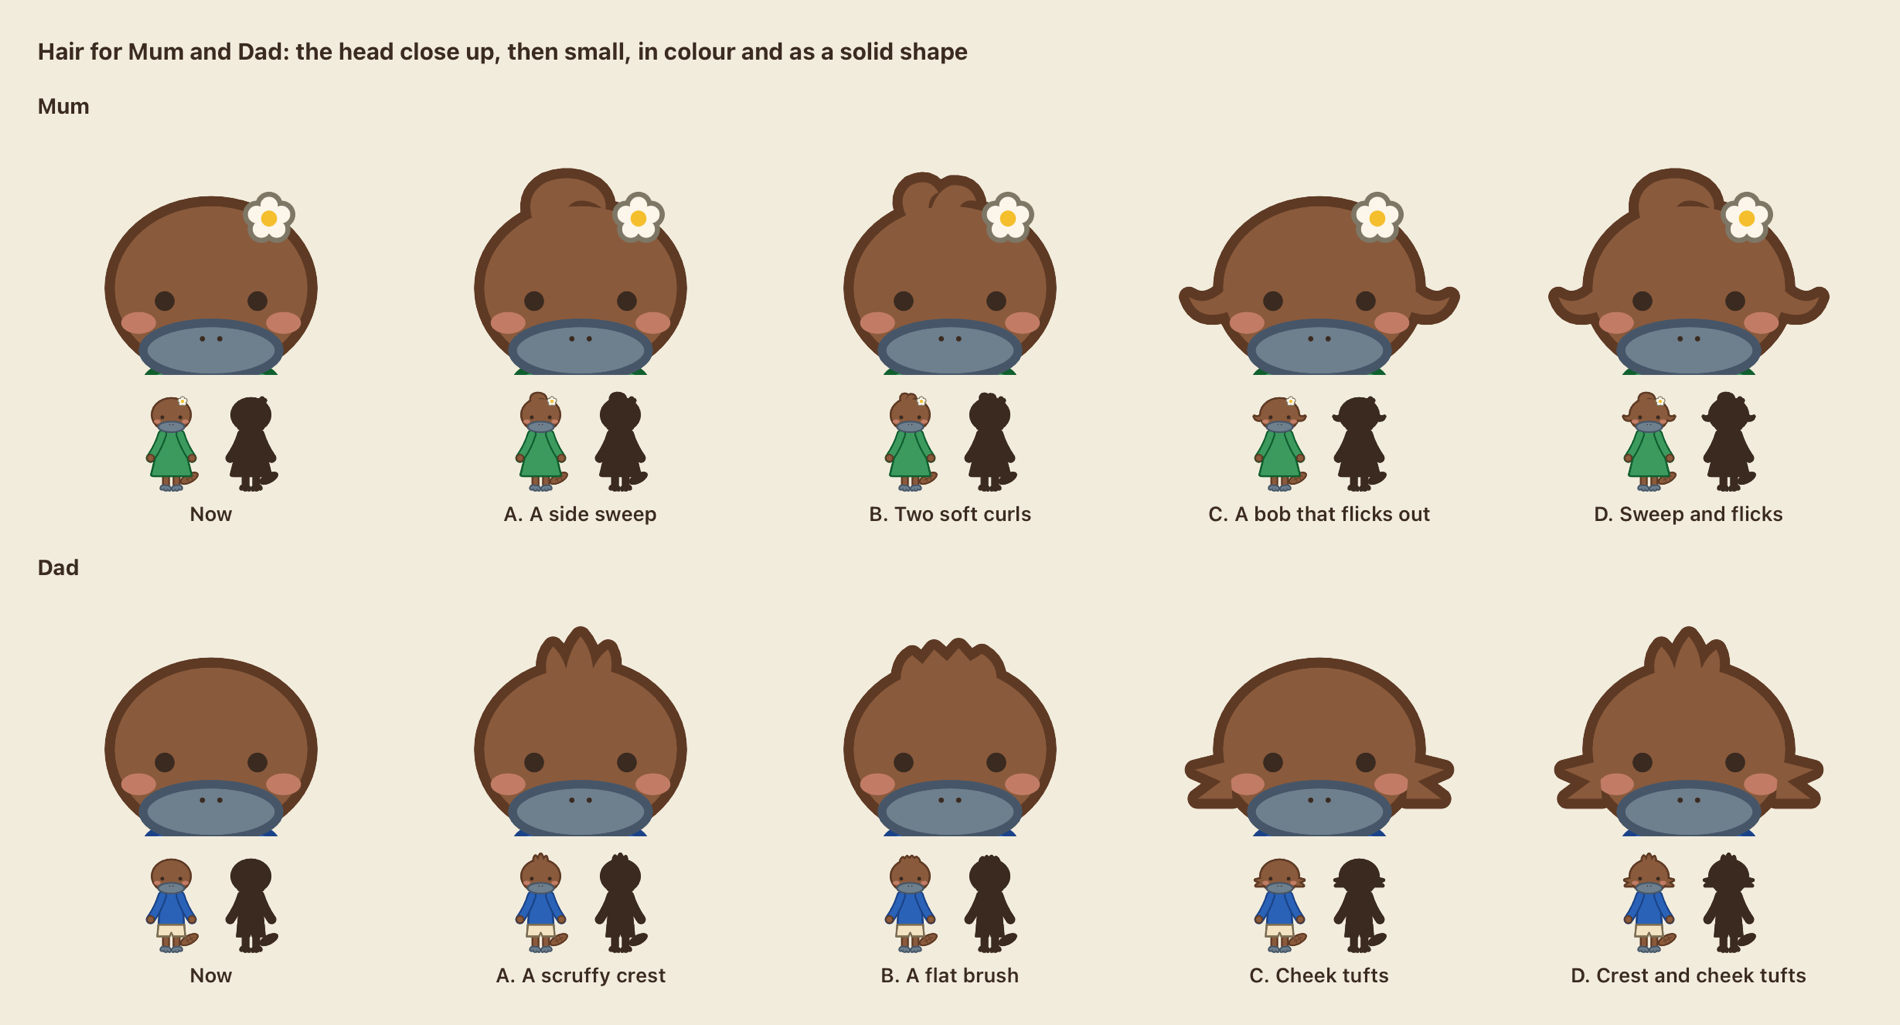
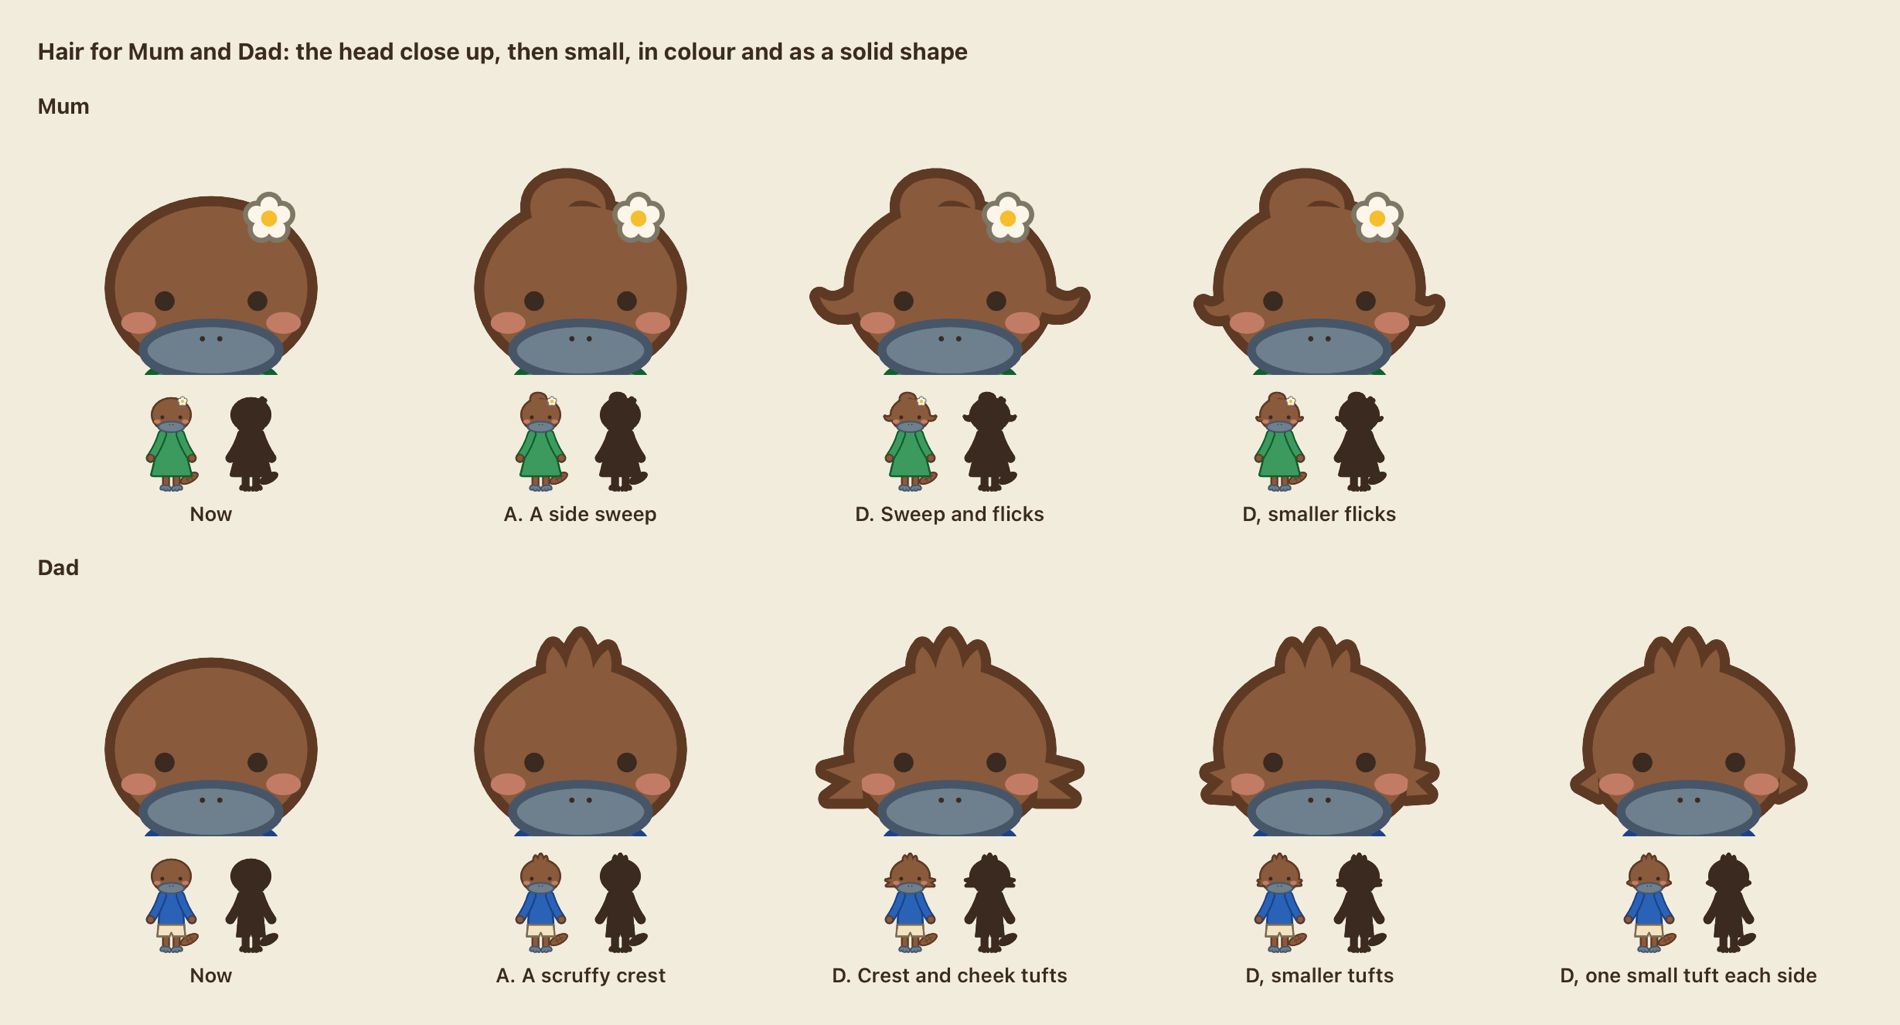
Hair options for Mum and Dad: A and D, with smaller side pieces

diff --git a/app/Puggle/Features/Family/RefinementSheets.swift b/app/Puggle/Features/Family/RefinementSheets.swift
@@ -93,19 +93,17 @@ enum RefinementSheets {
         return copy
     }
 
+    private static let sweep = "M88 64 Q80 44 96 35 Q114 28 130 38 Q139 45 137 55 Q128 46 117 48 Q107 52 110 64 Z"
     private static let mumHair: [(String, [String])] = [
-        ("A. A side sweep", ["M88 64 Q80 44 96 35 Q114 28 130 38 Q139 45 137 55 Q128 46 117 48 Q107 52 110 64 Z"]),
-        ("B. Two soft curls", ["M92 62 Q82 46 93 37 Q106 31 112 42 Q103 45 106 60 Z", "M106 60 Q108 42 121 37 Q135 36 138 48 Q127 45 123 60 Z"]),
-        ("C. A bob that flicks out", ["M58 124 Q36 132 30 114 Q42 122 56 108 Z", "M182 124 Q204 132 210 114 Q198 122 184 108 Z"]),
-        ("D. Sweep and flicks", ["M88 64 Q80 44 96 35 Q114 28 130 38 Q139 45 137 55 Q128 46 117 48 Q107 52 110 64 Z",
-                                 "M58 124 Q36 132 30 114 Q42 122 56 108 Z", "M182 124 Q204 132 210 114 Q198 122 184 108 Z"]),
+        ("A. A side sweep", [sweep]),
+        ("D. Sweep and flicks", [sweep, "M58 124 Q36 132 30 114 Q42 122 56 108 Z", "M182 124 Q204 132 210 114 Q198 122 184 108 Z"]),
+        ("D, smaller flicks", [sweep, "M58 126 Q44 131 40 119 Q48 124 57 114 Z", "M182 126 Q196 131 200 119 Q192 124 183 114 Z"]),
     ]
     private static let dadHair: [(String, [String])] = [
-        ("A. A scruffy crest", ["M98 62 Q93 46 101 37 Q109 44 112 60 Z", "M109 60 Q111 40 120 30 Q129 40 129 60 Z", "M126 60 Q130 45 139 39 Q144 48 139 62 Z"]),
-        ("B. A flat brush", ["M86 64 Q85 48 94 43 L101 49 L109 39 L118 47 L126 38 L134 47 L142 42 Q154 49 152 64 Z"]),
-        ("C. Cheek tufts", ["M58 116 L34 122 L52 130 L36 142 L60 142 Z", "M182 116 L206 122 L188 130 L204 142 L180 142 Z"]),
-        ("D. Crest and cheek tufts", ["M109 60 Q111 40 120 30 Q129 40 129 60 Z", "M98 62 Q93 46 101 37 Q109 44 112 60 Z", "M126 60 Q130 45 139 39 Q144 48 139 62 Z",
-                                      "M58 116 L34 122 L52 130 L36 142 L60 142 Z", "M182 116 L206 122 L188 130 L204 142 L180 142 Z"]),
+        ("A. A scruffy crest", ["M109 60 Q111 40 120 30 Q129 40 129 60 Z", "M98 62 Q93 46 101 37 Q109 44 112 60 Z", "M126 60 Q130 45 139 39 Q144 48 139 62 Z"]),
+        ("D. Crest and cheek tufts", ["M109 60 Q111 40 120 30 Q129 40 129 60 Z", "M98 62 Q93 46 101 37 Q109 44 112 60 Z", "M126 60 Q130 45 139 39 Q144 48 139 62 Z", "M58 116 L34 122 L52 130 L36 142 L60 142 Z", "M182 116 L206 122 L188 130 L204 142 L180 142 Z"]),
+        ("D, smaller tufts", ["M109 60 Q111 40 120 30 Q129 40 129 60 Z", "M98 62 Q93 46 101 37 Q109 44 112 60 Z", "M126 60 Q130 45 139 39 Q144 48 139 62 Z", "M58 120 L44 124 L54 130 L45 139 L60 140 Z", "M182 120 L196 124 L186 130 L195 139 L180 140 Z"]),
+        ("D, one small tuft each side", ["M109 60 Q111 40 120 30 Q129 40 129 60 Z", "M98 62 Q93 46 101 37 Q109 44 112 60 Z", "M126 60 Q130 45 139 39 Q144 48 139 62 Z", "M57 123 L45 132 L58 139 Z", "M183 123 L195 132 L182 139 Z"]),
     ]
 
     private static func parentHair() {
